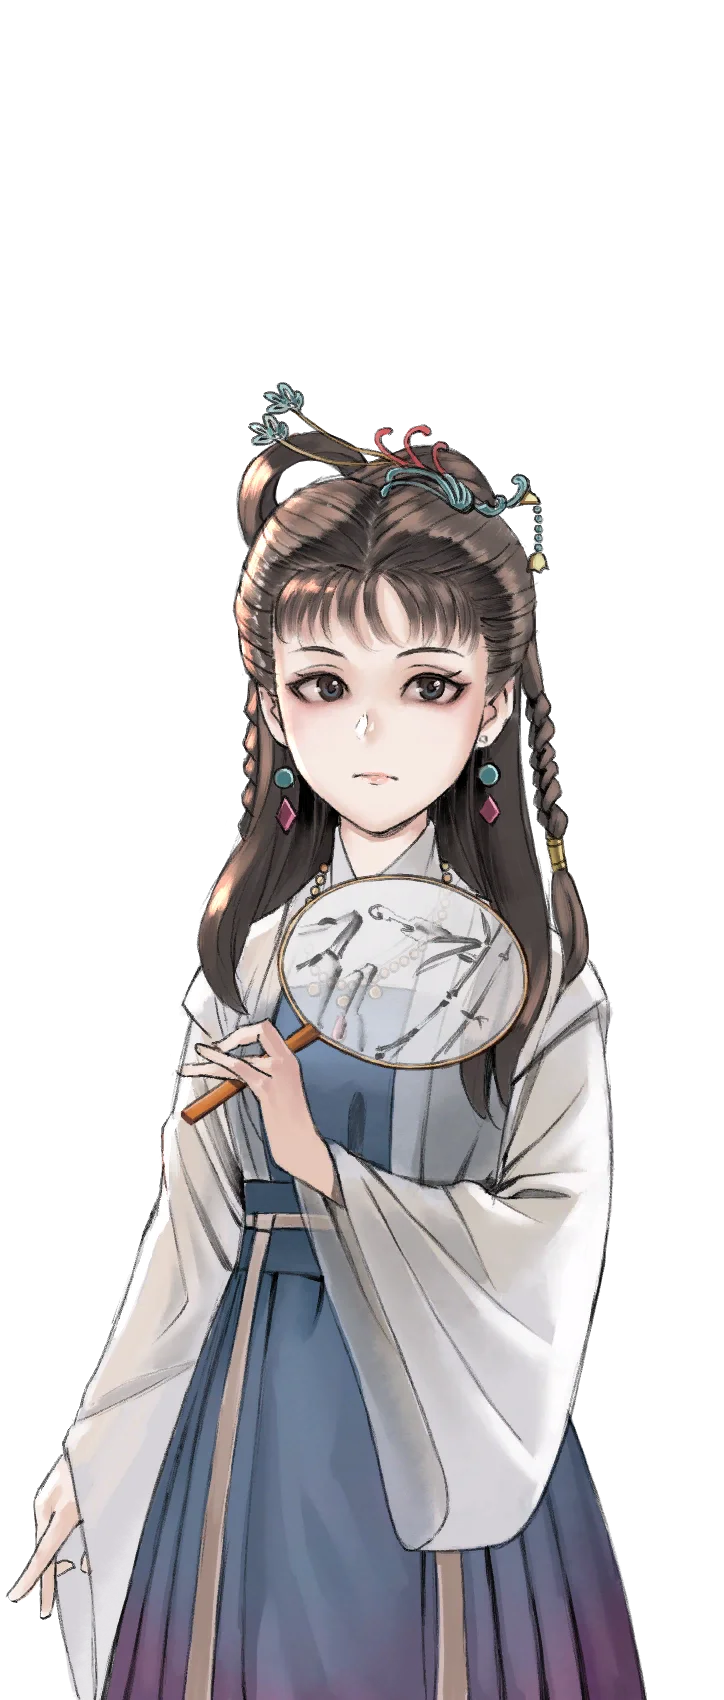
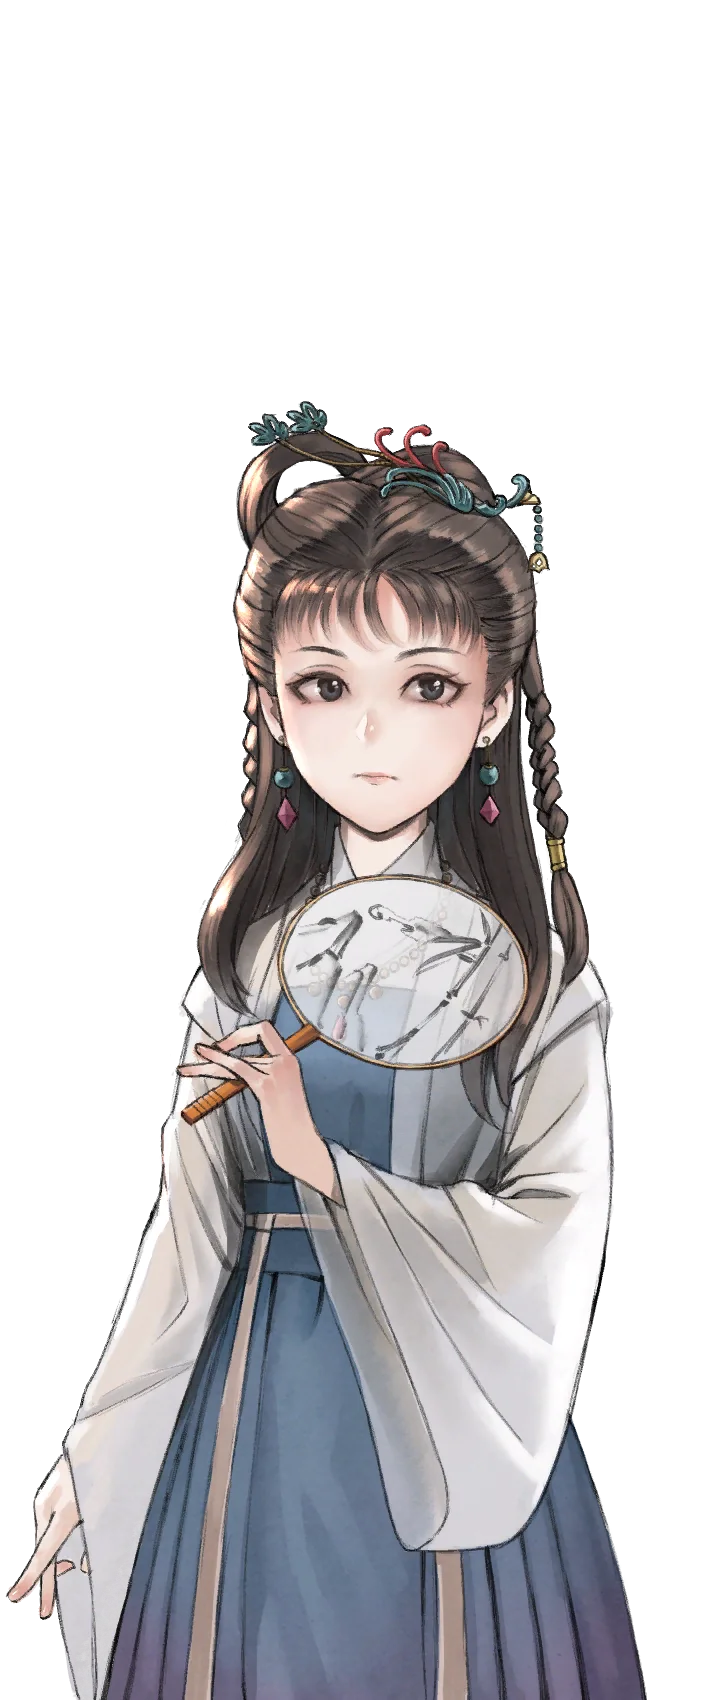
孟仙謠補上 8 個表情分頁並換新版立繪

diff --git a/docs/people/characters/special831.md b/docs/people/characters/special831.md
@@ -34,12 +34,12 @@ tags:
 					[[瑞笙]] (郎君)
 				</ChTd>
 			</ChTr>
-    			<ChTr>
+			<ChTr>
 				<ChTd position='center'>
 					[[趙方]] (外祖父)
 				</ChTd>
-            </ChTr>
-    			<ChTr>
+			</ChTr>
+			<ChTr>
 				<ChTd position='center'>
 					孟珙 (四哥)
 				</ChTd>
@@ -50,6 +50,38 @@ tags:
 				</ChTd>
 			</ChTr>
 		</ChTable>
+	</ChTab>
+	<ChTab title="微笑">
+		<Ch src='/images/characters/special831/laugh1.webp' position='center'/>
+		<ChName nameZh='微笑' nameEn='Smile' position='right' />
+	</ChTab>
+	<ChTab title="汗顏">
+		<Ch src='/images/characters/special831/nervous1.webp' position='center'/>
+		<ChName nameZh='汗顏' nameEn='Sweating' position='right' />
+	</ChTab>
+	<ChTab title="驚慌">
+		<Ch src='/images/characters/special831/nervous2.webp' position='center'/>
+		<ChName nameZh='驚慌' nameEn='Panic' position='right' />
+	</ChTab>
+	<ChTab title="害羞">
+		<Ch src='/images/characters/special831/shy.webp' position='center'/>
+		<ChName nameZh='害羞' nameEn='Shy' position='right' />
+	</ChTab>
+	<ChTab title="不悅">
+		<Ch src='/images/characters/special831/angry1.webp' position='center'/>
+		<ChName nameZh='不悅' nameEn='Displeased' position='right' />
+	</ChTab>
+	<ChTab title="生氣">
+		<Ch src='/images/characters/special831/angry2.webp' position='center'/>
+		<ChName nameZh='生氣' nameEn='Angry' position='right' />
+	</ChTab>
+	<ChTab title="哭泣">
+		<Ch src='/images/characters/special831/sad.webp' position='center'/>
+		<ChName nameZh='哭泣' nameEn='Cry' position='right' />
+	</ChTab>
+	<ChTab title="喝醉">
+		<Ch src='/images/characters/special831/drunk.webp' position='center'/>
+		<ChName nameZh='喝醉' nameEn='Drunk' position='right' />
 	</ChTab>
 </ChTabs>
 <br><br>
